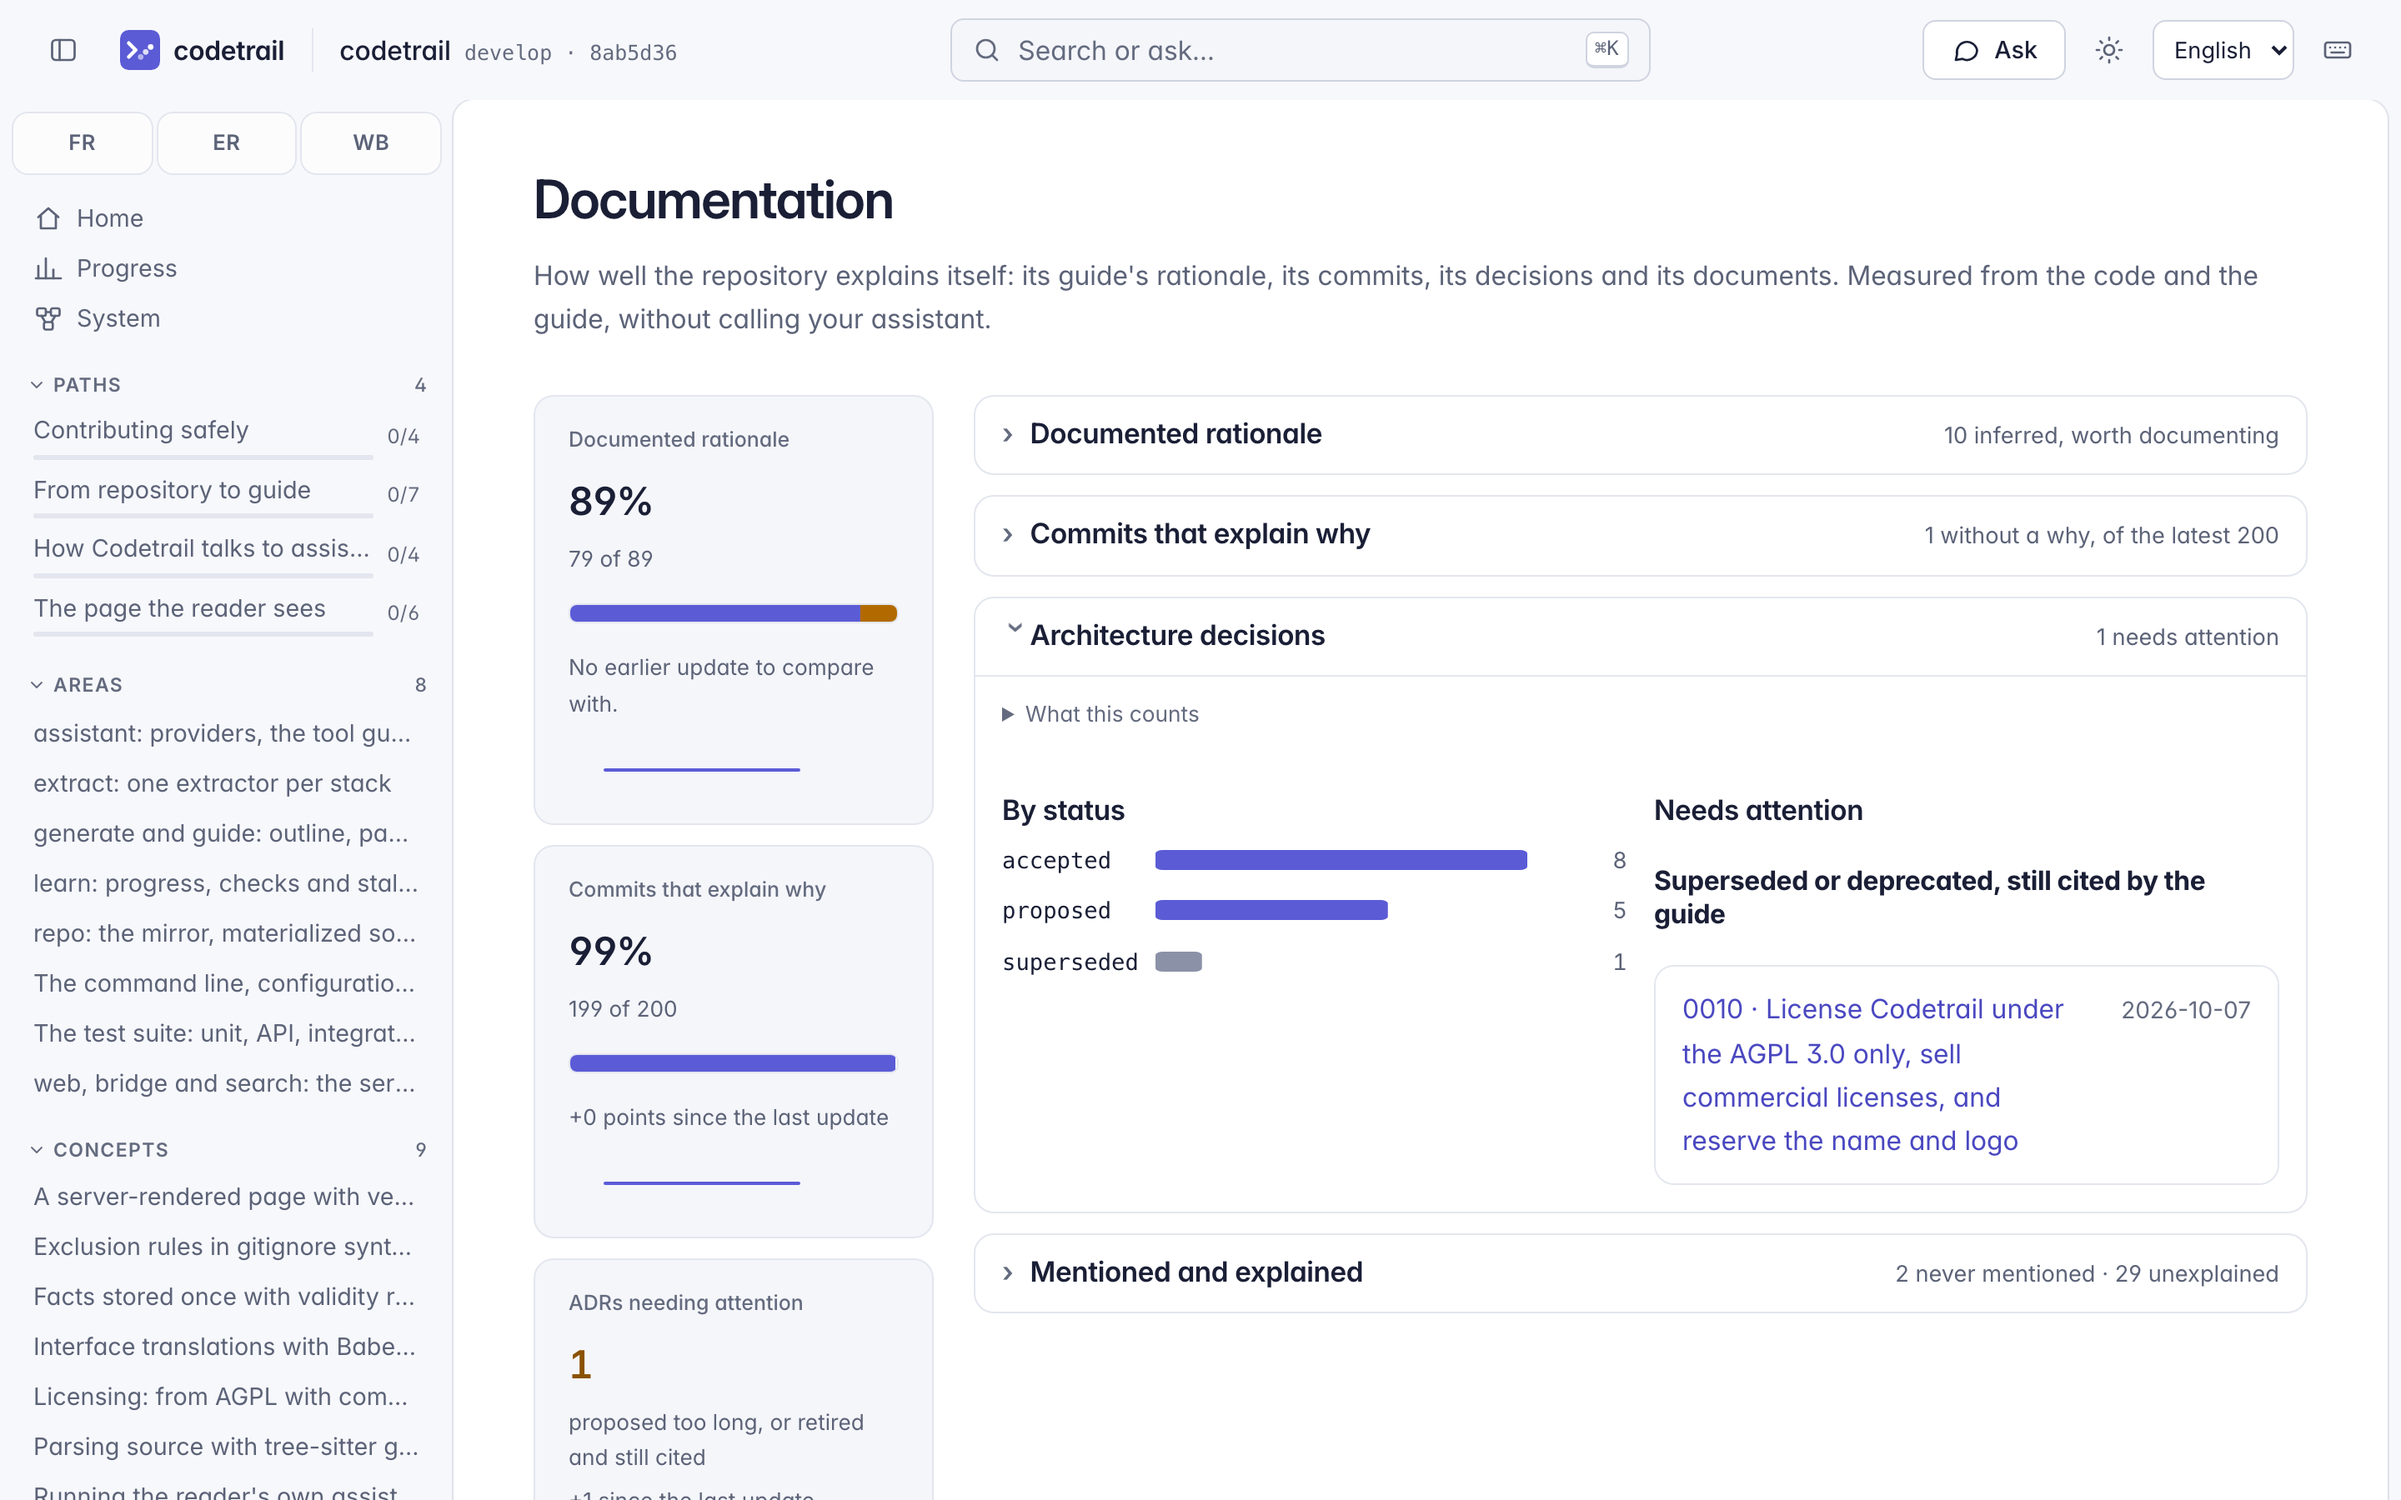
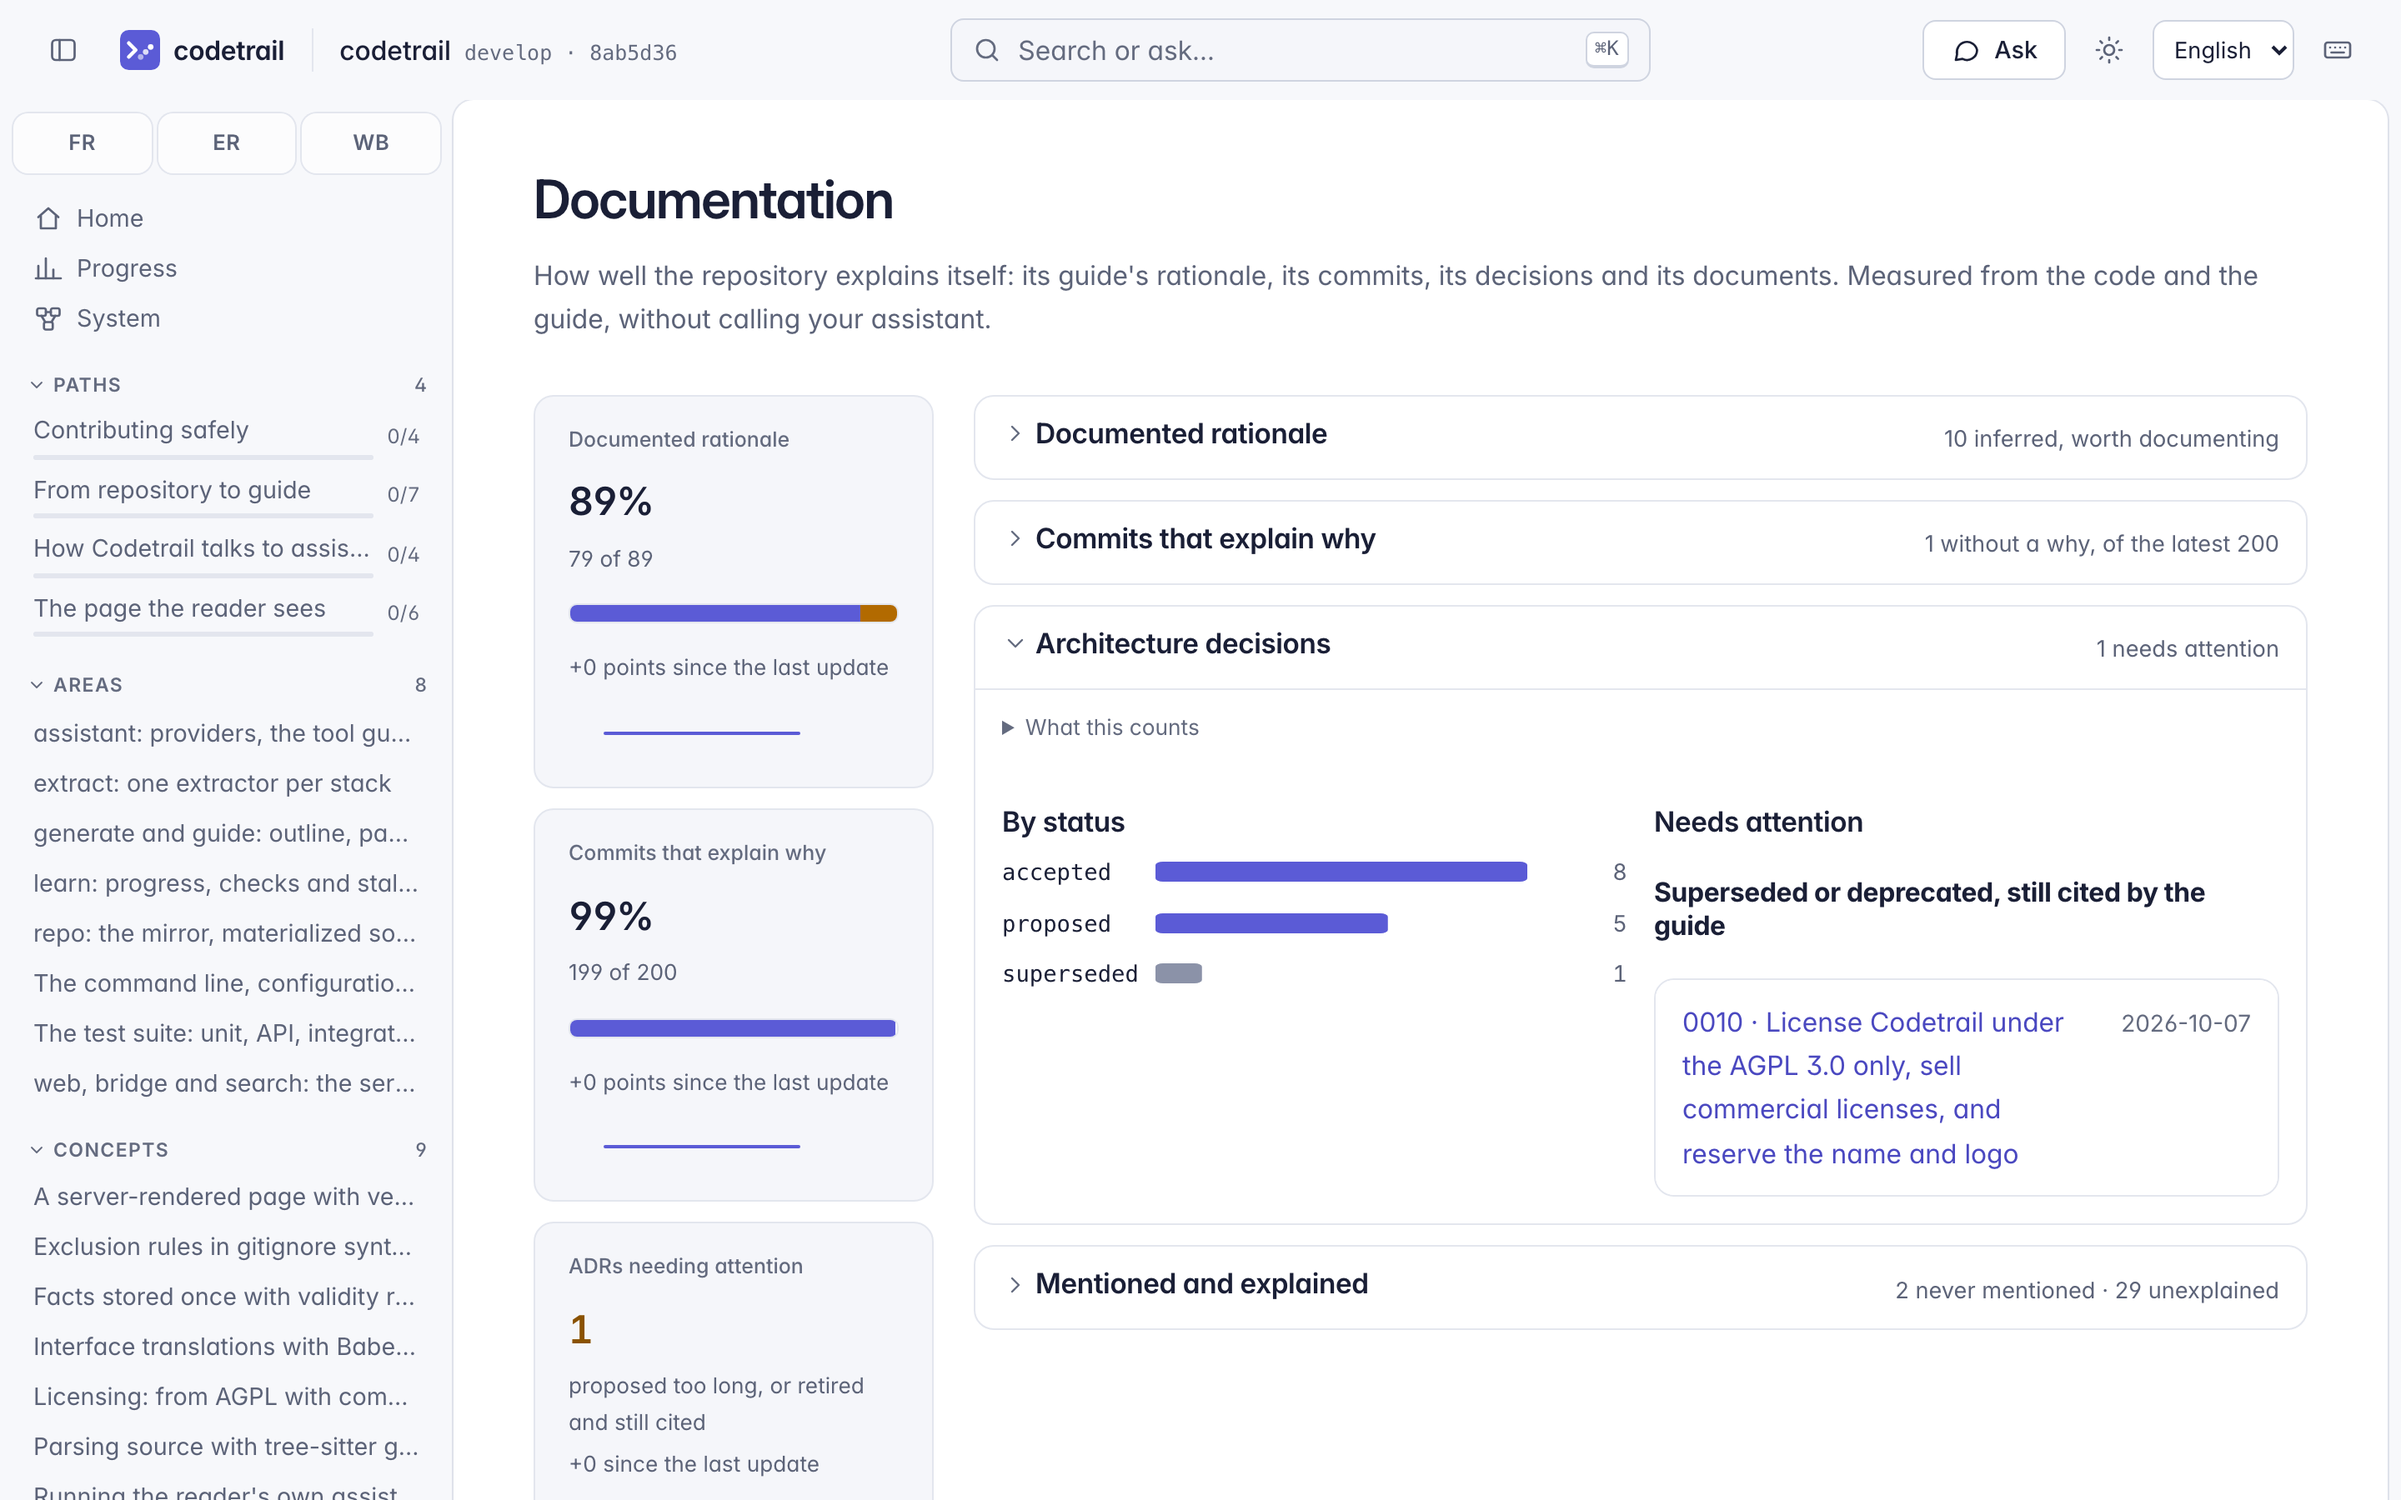
fix(web): show the watched band's label in full, and centre the sections' arrows
What: the Repository timeline's "Watched by Codetrail since" label is
its own element; when the band is too narrow for it (Codetrail started
watching late in the window), it sits just before the band's dashed
edge instead of being clipped to nothing. The Documentation page's
section headings use the sidebar's chevron icon, centred on the
heading's text and turned while open, instead of a rotated "›" glyph
that sat high. Browser tests cover both, and the README's Repository
and Documentation screenshots are retaken to show them.

Why: two visual issues the founder noticed in the README screenshots.

Alternatives considered: shortening the label (it would still clip).

Risks: none; presentation only.

Agent and model: Claude Code, Claude Opus 5.5

diff --git a/src/codetrail/web/templates/documentation.html b/src/codetrail/web/templates/documentation.html
@@ -1,4 +1,5 @@
 {% extends "base.html" %}
+{% from "layout/icons.html" import icon %}
 {% block title %}{{ _("Documentation") }}{% endblock %}
 {% block content %}
 {# A list of `listed` items and its folded rest; with a filter, each item carries its kind and the rest's summary
@@ -108,7 +109,7 @@
 
 <section id="rationale" aria-labelledby="rationale-title">
 <details class="doc-fold"{% if open_section == "rationale" %} open{% endif %}>
-  <summary><h2 id="rationale-title">{{ _("Documented rationale") }}</h2><span class="doc-todo">{% if not has_pages %}{{ _("No pages yet") }}{% elif rationale.inferred %}{% trans count=rationale.inferred %}{{ count }} inferred, worth documenting{% pluralize %}{{ count }} inferred, worth documenting{% endtrans %}{% else %}{{ _("Nothing inferred") }}{% endif %}</span></summary>
+  <summary><h2 id="rationale-title">{{ icon("chevron") }}{{ _("Documented rationale") }}</h2><span class="doc-todo">{% if not has_pages %}{{ _("No pages yet") }}{% elif rationale.inferred %}{% trans count=rationale.inferred %}{{ count }} inferred, worth documenting{% pluralize %}{{ count }} inferred, worth documenting{% endtrans %}{% else %}{{ _("Nothing inferred") }}{% endif %}</span></summary>
   <div class="doc-body">
   {{ about(_("Rationale blocks in the guide's area and concept pages: documented ones quote a source Codetrail checked, inferred ones are the assistant's reading. It counts only what the guide wrote about.")) }}
   {% if not has_pages %}
@@ -134,7 +135,7 @@
 
 <section id="commits" aria-labelledby="commits-title">
 <details class="doc-fold"{% if open_section == "commits" %} open{% endif %}>
-  <summary><h2 id="commits-title">{{ _("Commits that explain why") }}</h2><span class="doc-todo">{% if commits is none %}{{ _("Not available just now.") }}{% else %}{% trans count=commits.without_why|length, measured=commits.measured %}{{ count }} without a why, of the latest {{ measured }}{% pluralize %}{{ count }} without a why, of the latest {{ measured }}{% endtrans %}{% endif %}</span></summary>
+  <summary><h2 id="commits-title">{{ icon("chevron") }}{{ _("Commits that explain why") }}</h2><span class="doc-todo">{% if commits is none %}{{ _("Not available just now.") }}{% else %}{% trans count=commits.without_why|length, measured=commits.measured %}{{ count }} without a why, of the latest {{ measured }}{% pluralize %}{{ count }} without a why, of the latest {{ measured }}{% endtrans %}{% endif %}</span></summary>
   <div class="doc-body">
   {% if commits is none %}
   <p class="muted">{{ _("The commit history couldn't be read just now; the log says why.") }}</p>
@@ -158,7 +159,7 @@
 <section id="decisions" aria-labelledby="decisions-title">
 {% set to_check = decisions.undated|length + (decisions.uncited|length if has_pages else 0) %}
 <details class="doc-fold"{% if open_section == "decisions" %} open{% endif %}>
-  <summary><h2 id="decisions-title">{{ _("Architecture decisions") }}</h2><span class="doc-todo">{% if not decisions.by_status %}{{ _("None found") }}{% else %}{% trans count=decisions.attention %}{{ count }} needs attention{% pluralize %}{{ count }} need attention{% endtrans %}{% if to_check %} · {% trans count=to_check %}{{ count }} to check{% pluralize %}{{ count }} to check{% endtrans %}{% endif %}{% endif %}</span></summary>
+  <summary><h2 id="decisions-title">{{ icon("chevron") }}{{ _("Architecture decisions") }}</h2><span class="doc-todo">{% if not decisions.by_status %}{{ _("None found") }}{% else %}{% trans count=decisions.attention %}{{ count }} needs attention{% pluralize %}{{ count }} need attention{% endtrans %}{% if to_check %} · {% trans count=to_check %}{{ count }} to check{% pluralize %}{{ count }} to check{% endtrans %}{% endif %}{% endif %}</span></summary>
   <div class="doc-body">
   {% if not decisions.by_status %}
   <p class="muted">{{ _("No architecture decision records were found where the target's settings say they live.") }}</p>
@@ -203,7 +204,7 @@
 <section id="coverage" aria-labelledby="coverage-title">
 {% set mention_total = mentions.mentioned|length + mentions.unmentioned|length %}
 <details class="doc-fold"{% if open_section == "coverage" %} open{% endif %}>
-  <summary><h2 id="coverage-title">{{ _("Mentioned and explained") }}</h2><span class="doc-todo">{% trans count=mentions.unmentioned|length %}{{ count }} never mentioned{% pluralize %}{{ count }} never mentioned{% endtrans %}{% if has_pages %} · {% trans count=explained.unexplained|length %}{{ count }} unexplained{% pluralize %}{{ count }} unexplained{% endtrans %}{% endif %}</span></summary>
+  <summary><h2 id="coverage-title">{{ icon("chevron") }}{{ _("Mentioned and explained") }}</h2><span class="doc-todo">{% trans count=mentions.unmentioned|length %}{{ count }} never mentioned{% pluralize %}{{ count }} never mentioned{% endtrans %}{% if has_pages %} · {% trans count=explained.unexplained|length %}{{ count }} unexplained{% pluralize %}{{ count }} unexplained{% endtrans %}{% endif %}</span></summary>
   <div class="doc-body">
   {{ about(_("A package counts when a document names it as a whole word, a project when its folder holds a README or a document names its folder, and a resource when a document names its address. A fact is explained when it falls in the scope of a written area or concept page.")) }}
   <p class="muted">{{ _("External packages, projects and infrastructure resources that some document names. A mention isn't a reason: this only shows what no document talks about at all.") }}</p>

diff --git a/src/codetrail/web/static/js/repository.js b/src/codetrail/web/static/js/repository.js
@@ -234,10 +234,12 @@ function setUpTimeline(data, labels) {
 
     container.append(element("span", "timeline-label", labels.text("dependencies")));
     const depLane = element("div", "timeline-lane");
+    let watched = null;
     if (data.watchStart && dayOf(data.watchStart) < to) {
-      const band = element("div", "lane-watch", labels.text("watched", { date: data.watchStart }));
-      band.style.insetInlineStart = `${Math.max(0, position(dayOf(data.watchStart)))}%`;
-      depLane.append(band);
+      watched = element("div", "lane-watch");
+      watched.style.insetInlineStart = `${Math.max(0, position(dayOf(data.watchStart)))}%`;
+      watched.append(element("span", "lane-watch-label", labels.text("watched", { date: data.watchStart })));
+      depLane.append(watched);
     }
     const deps = data.deps.map((dep) => ({ ...dep, time: dayOf(dep.date) })).filter((dep) => dep.time >= from && dep.time < to);
     if (!deps.length && !(data.watchStart && dayOf(data.watchStart) < to)) depLane.append(element("p", "lane-empty", labels.text("noDeps")));
@@ -252,6 +254,8 @@ function setUpTimeline(data, labels) {
       depLane.append(mark);
     }
     container.append(depLane);
+    // A band too narrow for its label (Codetrail started watching late in the window) shows it just before its edge.
+    if (watched) watched.classList.toggle("narrow", watched.firstElementChild.scrollWidth > watched.clientWidth);
 
     container.append(element("span", "timeline-label", labels.text("wholeHistory")));
     const mini = element("div", "timeline-mini");

diff --git a/src/codetrail/web/static/css/components.css b/src/codetrail/web/static/css/components.css
@@ -1132,20 +1132,28 @@ dialog[open] {
 }
 
 .doc-fold > summary h2 {
+  display: flex;
+  align-items: center;
+  gap: var(--space-1);
   margin: 0;
   font-size: 1.05rem;
 }
 
-.doc-fold > summary h2::before {
-  content: "›";
-  display: inline-block;
-  inline-size: 1em;
+/* The sidebar's chevron, centred on the heading's text: it points down while the section is open. */
+.doc-fold > summary h2 .icon {
+  flex: none;
+  inline-size: 16px;
+  block-size: 16px;
   color: var(--text-faint);
   transition: transform var(--duration) var(--ease);
 }
 
-.doc-fold[open] > summary h2::before {
+.doc-fold[open] > summary h2 .icon {
   transform: rotate(90deg);
+}
+
+.doc-fold:not([open]) > summary h2 .icon:dir(rtl) {
+  transform: scaleX(-1);
 }
 
 .doc-todo {
@@ -1366,9 +1374,24 @@ dialog[open] {
   border-inline-start: 1px dashed var(--accent);
   color: var(--text-faint);
   font-size: 0.7rem;
-  padding-inline-start: var(--space-1);
   white-space: nowrap;
   overflow: hidden;
+}
+
+.lane-watch-label {
+  display: block;
+  padding-inline: var(--space-1);
+  line-height: 28px;
+}
+
+/* Too narrow for its label: the label sits just before the band's dashed edge, inside the lane. */
+.lane-watch.narrow {
+  overflow: visible;
+}
+
+.lane-watch.narrow .lane-watch-label {
+  position: absolute;
+  inset-inline-end: 100%;
 }
 
 .release-mark {

diff --git a/tests/browser/test_documentation_page.py b/tests/browser/test_documentation_page.py
@@ -1,5 +1,7 @@
 """The Documentation page's folding sections and filter chips (design section 21)."""
 
+import re
+
 import pytest
 from playwright.sync_api import Locator, Page, expect
 
@@ -76,3 +78,18 @@ def test_the_whole_overview_stays_reachable_on_a_laptop_screen(page: Page, site:
         " return {top: box.top, bottom: box.bottom, height: innerHeight}; }"
     )
     assert box["top"] >= 0 and box["bottom"] <= box["height"]  # its last tile can be scrolled to, not cut off
+
+
+def test_a_section_s_arrow_sits_on_its_heading_s_text(page: Page, site: Site) -> None:
+    site.sign_in(page, "/documentation")
+    for name in ("rationale", "commits"):  # one open, one closed
+        heading = fold(page, name).locator(":scope > summary h2")
+        arrow = heading.locator(".icon")
+        arrow_box, text_box = arrow.bounding_box(), heading.bounding_box()
+        assert arrow_box is not None and text_box is not None
+        arrow_middle = arrow_box["y"] + arrow_box["height"] / 2
+        text_middle = text_box["y"] + text_box["height"] / 2
+        assert abs(arrow_middle - text_middle) <= 2, name
+    turned = re.compile(r"matrix\([-0-9.e]+, 1, -1, [-0-9.e]+, 0, 0\)")  # rotate(90deg), as Chrome reports it
+    expect(fold(page, "rationale").locator(":scope > summary h2 .icon")).to_have_css("transform", turned)
+    expect(fold(page, "commits").locator(":scope > summary h2 .icon")).to_have_css("transform", "none")

diff --git a/tests/browser/test_repository_charts.py b/tests/browser/test_repository_charts.py
@@ -109,3 +109,15 @@ def test_the_window_starts_at_the_first_commit_and_panning_keeps_it_full(page: P
     while earlier.is_enabled():
         earlier.click()
     expect(page.locator('[data-chart="timeline"] .timeline-bar')).to_have_count(90)
+
+
+def test_the_watched_label_shows_in_full_when_the_band_is_narrow(page: Page, site: Site) -> None:
+    # The fixture's history spans over a year and Codetrail has watched it since today: the band is a sliver.
+    open_repository(page, site)
+    label = page.locator('[data-chart="timeline"] .lane-watch-label')
+    expect(label).to_contain_text("Watched by Codetrail since")
+    clipped = label.evaluate("label => label.scrollWidth > label.clientWidth + 1")
+    lane = label.evaluate("label => label.closest('.timeline-lane').getBoundingClientRect().toJSON()")
+    box = label.bounding_box()
+    assert not clipped and box is not None
+    assert lane["left"] <= box["x"] and box["x"] + box["width"] <= lane["right"] + 1
